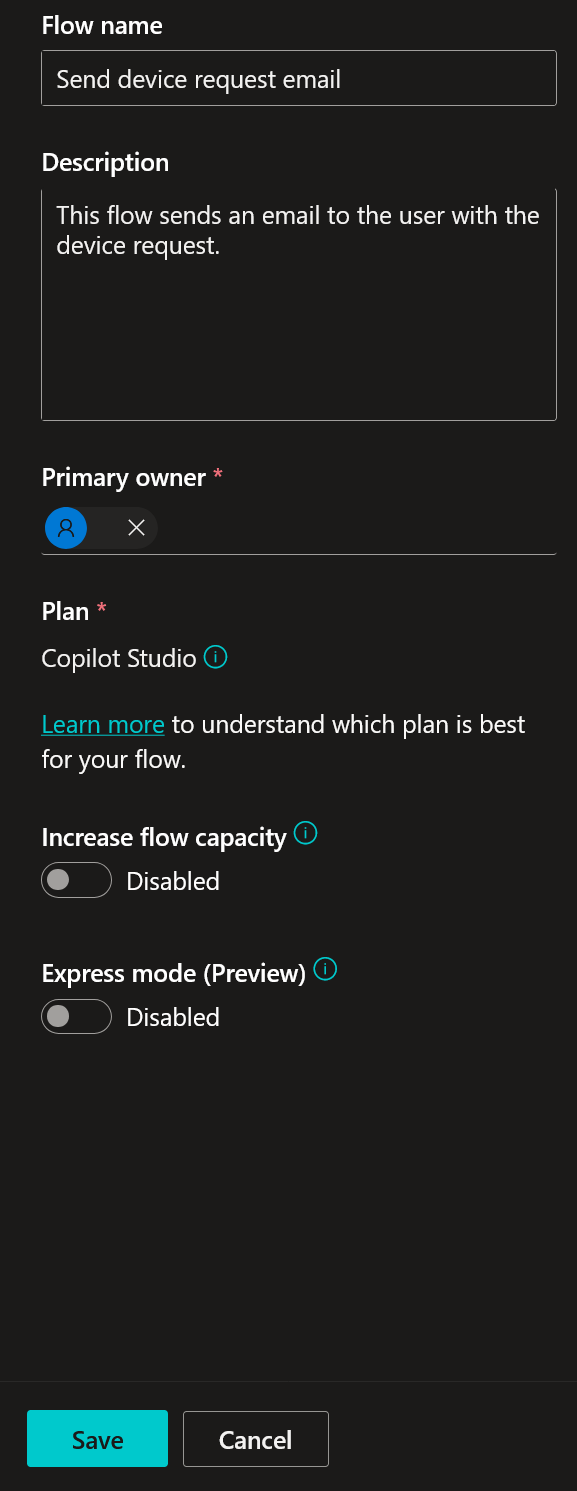
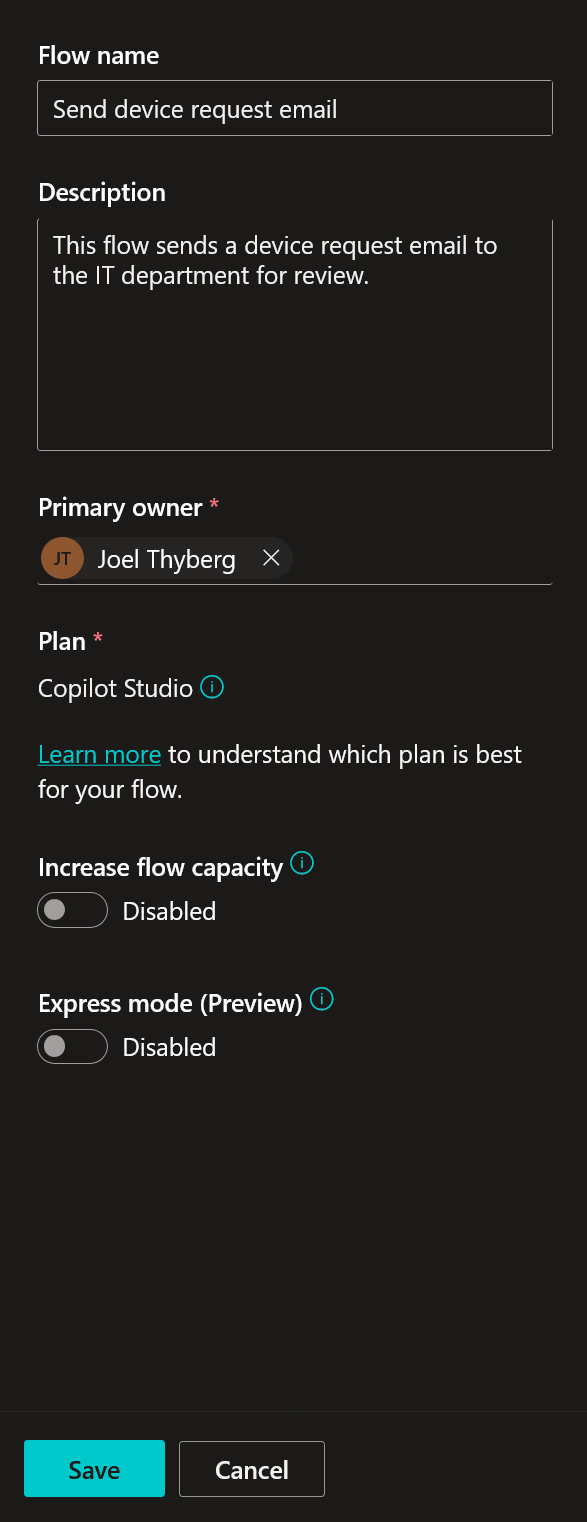
Updated setup instructions with new screenshots and more

diff --git a/docs/09-autonomy.md b/docs/09-autonomy.md
@@ -1,0 +1,231 @@
+# 9. Autonomi (Vakna till liv)
+
+Hittills har din agent varit reaktiv: den sitter snällt och väntar på att du ska säga "Hej".
+Nu ska vi göra den **proaktiv**. Vi ska ge agenten förmågan att reagera på händelser i omvärlden och agera helt självständigt.
+
+Vi kommer att göra två saker i detta kapitel:
+1.  **Övning 1 (Academy-spåret):** Vi sätter upp en trigger som reagerar när ett nytt supportärende skapas i SharePoint.
+2.  **Övning 2 (Förberedelse):** Vi lägger till en trigger för inkommande e-post (som vi ska använda i finalen).
+
+---
+
+## 9.0 Förberedelse: Skapa SharePoint-lista
+
+För att kunna testa detta behöver vi en lista där ärenden kan skapas.
+
+1.  Gå till din SharePoint-site (samma som vi använde för *Devices*).
+2.  Klicka på **+ New** -> **List** -> **Blank list**.
+3.  Döp den till: `Tickets`.
+4.  Klicka **Create**.
+5.  (Valfritt) Lägg till en kolumn för "Priority" (Choice) och "Description" (Text) om du vill vara noga, men för denna övning räcker standardkolumnerna.
+
+---
+
+## 9.1 Aktivera Generativ Orkestrering
+
+För att triggers ska fungera måste agentens "hjärna" vara inställd på att tänka självständigt (Generative Orchestration).
+
+1.  Öppna din agent **IT Support Helper**.
+2.  Gå till fliken **Overview**.
+3.  Under rubriken **Orchestration**, se till att **Generative orchestration** är satt till **On**.
+    *(Om den redan är på, låt den vara).*
+
+    ![Enable Generative AI](assets/images/chap09/gen-ai-enable.png)
+
+---
+
+## 9.2 Skapa SharePoint-triggern
+
+Nu ska vi koppla ihop agenten med listan vi just skapade.
+
+1.  Stanna kvar på **Overview**-fliken och scrolla ner till sektionen **Triggers**.
+2.  Klicka på **+ Add trigger**.
+
+    ![Add Trigger](assets/images/chap09/trigger-add-menu.png)
+
+3.  Sök efter och välj: **When an item is created (SharePoint)**.
+
+    ![Select SharePoint Trigger](assets/images/chap09/trigger-select-sharepoint.png)
+
+4.  **Konfigurera anslutningen:**
+    * **Trigger name:** Döp den till:
+      ```text
+      New Support Ticket Created in SharePoint
+      ```
+    * Vänta tills anslutningen (Connection) är klar (grön bock).
+    * Klicka **Next**.
+
+5.  **Konfigurera parametrarna:**
+    * **Site Address:** Välj din "Contoso IT" (eller IT Help Desk) site.
+    * **List Name:** Välj listan **Tickets**.
+
+    ![Configure Trigger](assets/images/chap09/trigger-config-sharepoint.png)
+
+6.  **Ge agenten instruktioner:**
+    Nu måste vi berätta för agenten vad den ska göra när triggern går igång. Kopiera in följande text i rutan **Additional instructions**:
+
+    ```text
+    New Support Ticket Created in SharePoint: {Body}
+    
+    Use the 'Acknowledge SharePoint Ticket' tool to generate the email body automatically and respond.
+    
+    IMPORTANT: Do not wait for any user input. Work completely autonomously.
+    ```
+
+    ![Trigger Instructions](assets/images/chap09/trigger-instructions.png)
+
+7.  Klicka på **Create trigger**.
+    *Nu skapas ett Power Automate-flöde i bakgrunden som agerar "lyssnare".*
+8.  Klicka **Close** när det är klart.
+
+---
+
+## 9.3 Redigera Triggern (Power Automate)
+
+Just nu får agenten bara veta *att* något hände. Vi vill ge den *detaljerna* (Vem skapade ärendet? Vad handlar det om?). För att göra det måste vi redigera flödet och lägga in en formel.
+
+1.  I sektionen **Triggers** på Overview-sidan, klicka på de **tre prickarna (...)** bredvid din nya trigger.
+2.  Välj **Edit in Power Automate**.
+
+    ![Edit Trigger Flow](assets/images/chap09/trigger-edit-flow.png)
+
+    *Ett nytt fönster öppnas.*
+
+3.  Klicka på noden **Sends a prompt to the specified copilot for processing**.
+4.  Hitta fältet **Body/message**.
+5.  **Ta bort** allt innehåll som står där (t.ex. `{Body}`).
+6.  Tryck på **snedstreck-tangenten (`/`)** och välj **Insert Expression** (blixten/fx-ikonen).
+
+    ![Insert Expression](assets/images/chap09/flow-edit-expression.png)
+
+7.  Kopiera och klistra in följande formel i uttrycksfältet (Expression):
+
+    ```powerfx
+    concat('Submitted By Name: ', first(triggerOutputs()?['body/value'])?['Author/DisplayName'], '\nSubmitted By Email: ', first(triggerOutputs()?['body/value'])?['Author/Email'], '\nTitle: ', first(triggerOutputs()?['body/value'])?['Title'], '\nIssue Description: ', first(triggerOutputs()?['body/value'])?['Description'], '\nPriority: ', first(triggerOutputs()?['body/value'])?['Priority/Value'],'\nTicket ID : ', first(triggerOutputs()?['body/value'])?['ID'])
+    ```
+    *(Denna kod skapar en snygg textsträng med all info agenten behöver).*
+
+8.  Klicka **Add** (eller Insert).
+9.  Klicka på **Save** (eller Publish) högst upp till höger.
+10. När det är sparat, stäng Power Automate-fliken och gå tillbaka till Copilot Studio.
+
+    ![Flow Updated](assets/images/chap09/flow-update-finished.png)
+
+---
+
+## 9.4 Ge Agenten ett verktyg (Email Tool)
+
+Agenten har fått instruktionen att "Använda 'Acknowledge SharePoint Ticket' tool", men det verktyget finns inte än! Vi måste skapa det. Här använder vi en **Connector** direkt som verktyg (inte ett Agent Flow som i förra kapitlet).
+
+1.  Gå till fliken **Topics** (eller Tools/Actions beroende på version).
+2.  Klicka på **+ Add a tool** (eller Add an action) och välj **Connector**. (Ibland ligger Connectors direkt under "Add a tool").
+
+    ![Add Email Tool](assets/images/chap09/tool-add-email.png)
+
+3.  Sök efter och välj **Send an email (V2)**.
+4.  Vänta på anslutningen och klicka **Add and configure** (eller Next).
+
+5.  **Konfigurera verktyget:**
+    * **Name:**
+      ```text
+      Acknowledge SharePoint ticket
+      ```
+    * **Description:**
+      ```text
+      This tool sends an email acknowledgement that a ticket has been received.
+      ```
+
+6.  **Konfigurera Inputs:**
+    Klicka på **Edit** (eller Customize) bredvid *Inputs*. Vi ska ställa in vad agenten ska fylla i.
+
+    * **To:**
+        * **Description:**
+          ```text
+          The email address of the person submitting the SharePoint Ticket
+          ```
+        * **Identify as:** Välj **Email**.
+
+    * **Subject:** (Om du kan redigera denna, sätt den till "Ticket Received", annars låt agenten bestämma).
+
+    * **Body:**
+        * **Description:**
+          ```text
+          An acknowledgement that the Ticket was received, and we aim to respond within 3 working days.
+          ```
+
+    ![Configure Email Tool](assets/images/chap09/tool-config-email.png)
+
+7.  Klicka **Save**.
+
+---
+
+## 9.5 Testa Autonomin
+
+Nu är sanningens ögonblick här. Kan agenten jobba utan oss?
+
+1.  Gå till fliken **Overview** i Copilot Studio.
+2.  Leta upp din trigger i listan och klicka på ikonen **Test Trigger** (ser ut som en liten blixt eller play-knapp).
+    *Detta öppnar testpanelen i "lyssnar-läge".*
+
+3.  Öppna en ny webbläsarflik och gå till din **SharePoint-lista (Tickets)**.
+4.  Klicka **+ New** och skapa ett test-ärende:
+    * **Title:** `Unable to connect to VPN`
+    * **Description:** `Unable to connect to corporate WIFI network after recent update` (om du har kolumnen, annars skriv i Title).
+    * **Priority:** `Normal` (om du har kolumnen).
+5.  Klicka **Save**.
+
+    ![Create SharePoint Item](assets/images/chap09/test-sharepoint-item.png)
+
+6.  Gå tillbaka till Copilot Studio och titta på testpanelen.
+    *Det kan ta 1-2 minuter innan triggern vaknar. Klicka på **Refresh**-ikonen i testpanelen då och då.*
+
+    ![Test Panel Waiting](assets/images/chap09/test-panel-trigger.png)
+
+7.  När triggern dyker upp i listan, klicka på **Start testing**.
+8.  Agenten kommer nu att köra igång. Klicka på **Activity Map** (kart-ikonen högst upp i testpanelen) för att se vad den gör.
+
+    **Du bör se:**
+    1.  Agenten tar emot datan (Trigger payload).
+    2.  Agenten bestämmer sig för att använda verktyget "Acknowledge SharePoint ticket".
+    3.  Verktyget körs.
+
+    ![Activity Map Success](assets/images/chap09/test-success-map.png)
+
+9.  Kontrollera din mejlkorg. Har du fått ett bekräftelsemejl?
+
+    ![Email Success](assets/images/chap09/test-email-result.png)
+
+---
+
+## 9.6 Förberedelse: E-post-triggern
+
+Nu har vi bevisat att agenten kan agera autonomt på en SharePoint-lista.
+För att förbereda inför nästa kapitel (där vi ska koppla ihop allt), ska vi lägga till en trigger till.
+
+Vi vill att agenten ska vakna när det kommer en **ny beställning** via mejl (det mejlet vi byggde i kapitel 8).
+
+1.  Gå till **Overview** -> **Triggers**.
+2.  Klicka **+ Add trigger**.
+3.  Sök efter och välj: **When a new email arrives (V3)** (Office 365 Outlook).
+4.  **Konfigurera:**
+    * **Trigger name:** `New Device Order Received`
+    * Klicka **Next**.
+5.  **Parametrar:**
+    * **Folder:** `Inbox`
+    * **Subject Filter:**
+      ```text
+      Typ av förfrågan: Ny enhet
+      ```
+      *(Detta är viktigt! Vi vill bara att agenten vaknar på just dessa mejl, inte alla dina mejl).*
+    * **Instructions:**
+      ```text
+      Notify the user that the order email has been received and will be processed by the specialist agent.
+      ```
+6.  Klicka **Create trigger**.
+
+!!! success "Bra jobbat!"
+    Du har nu en agent som:
+    1. Reagerar på IT-ärenden i SharePoint och skickar bekräftelser.
+    2. Lyssnar efter beställningsmejl (som vi ska använda i nästa kapitel).
+    
+    Din agent är nu **autonom**.

diff --git a/docs/08-create-flow.md b/docs/08-create-flow.md
@@ -28,7 +28,7 @@ Vi börjar inifrån din Topic **Request device** som vi jobbade med sist.
 
 ---
 
-## 8.2 Definiera Inputs (Trigger) m
+## 8.2 Definiera Inputs (Trigger)
 
 Väl inne i **Agent flows** kan vi se två noder.
 * Den övre noden: **When an agent calls the flow**. Här bestämmer vi vad agenten ska skicka *in* i processen.
@@ -339,7 +339,7 @@ Nu ska vi spara arbetet, namnge flödet korrekt och publicera det.
 
 5.  I fältet *Description*, skriv in:
     ```text
-    This flow sends an email to the user with the device request.
+    This flow sends a device request email to the IT department for review.
     ```
 
 6.  Klicka på **Save**.
